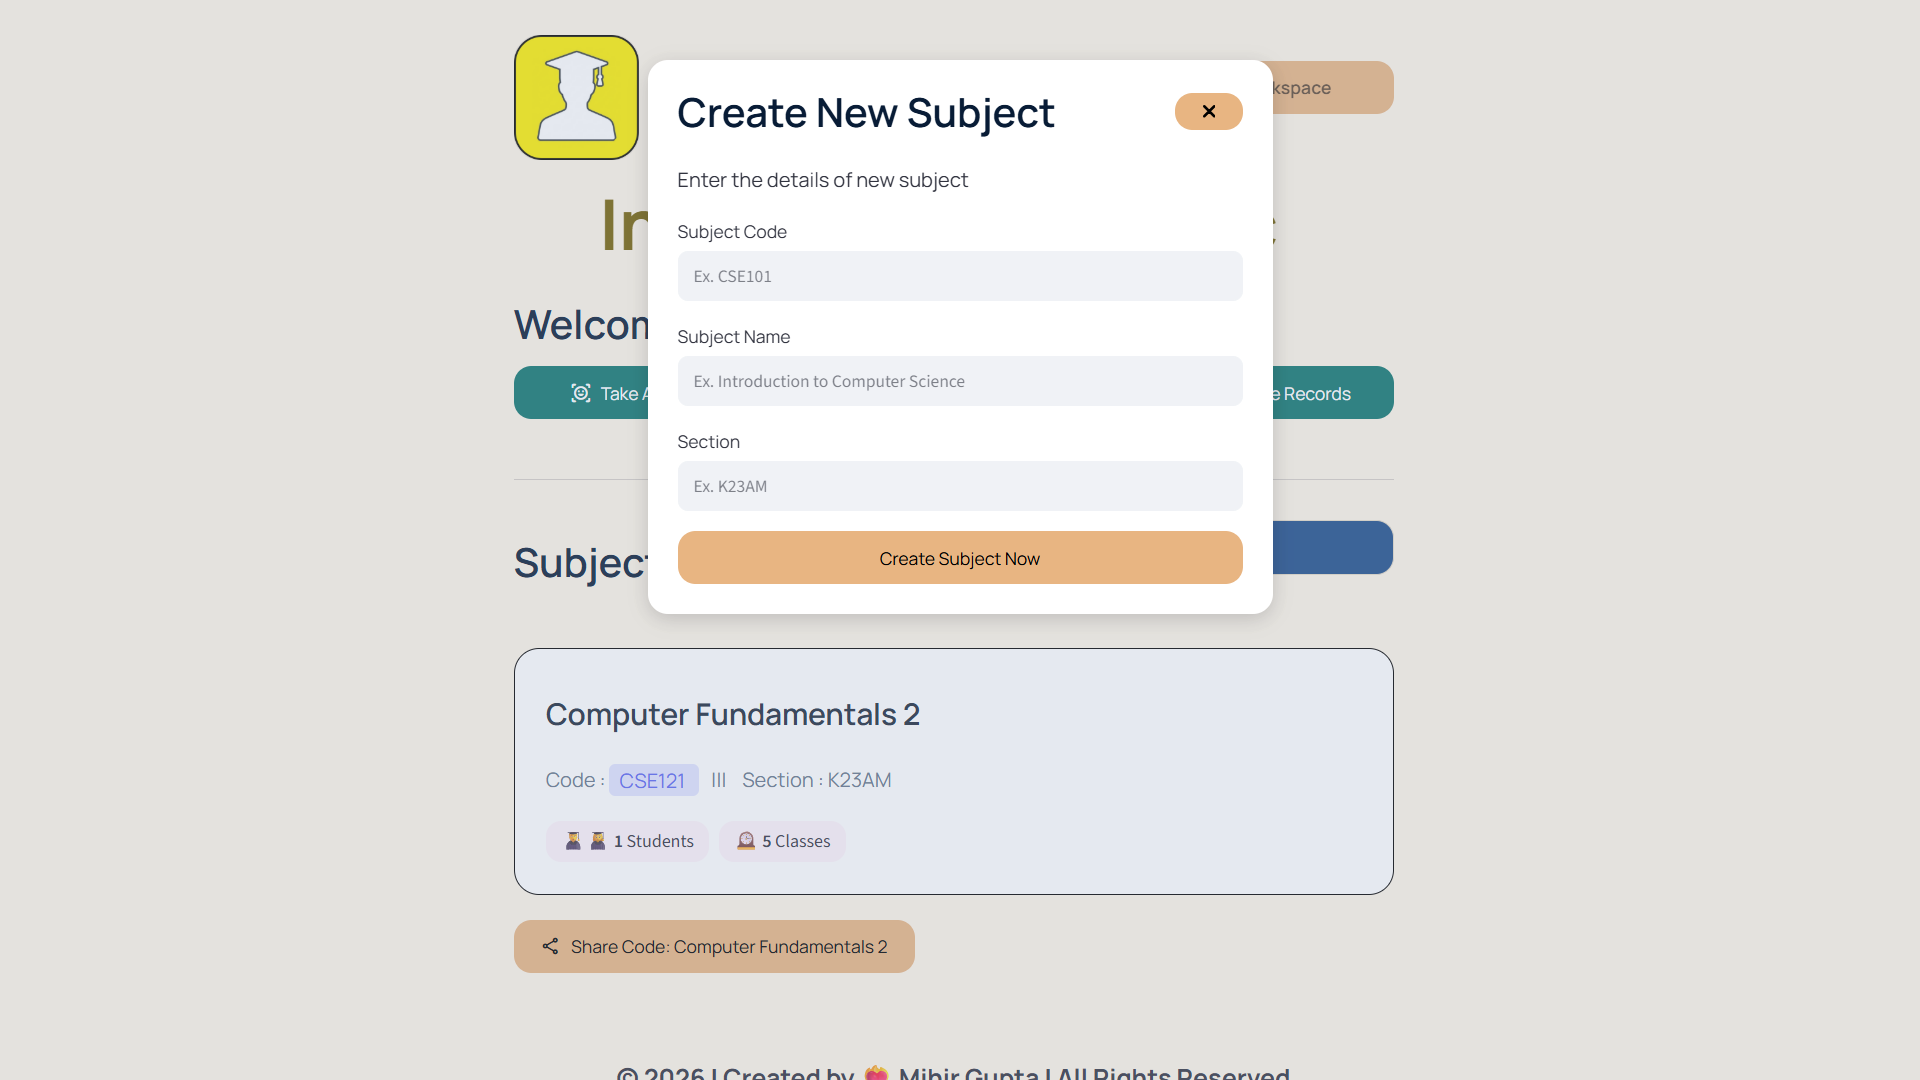
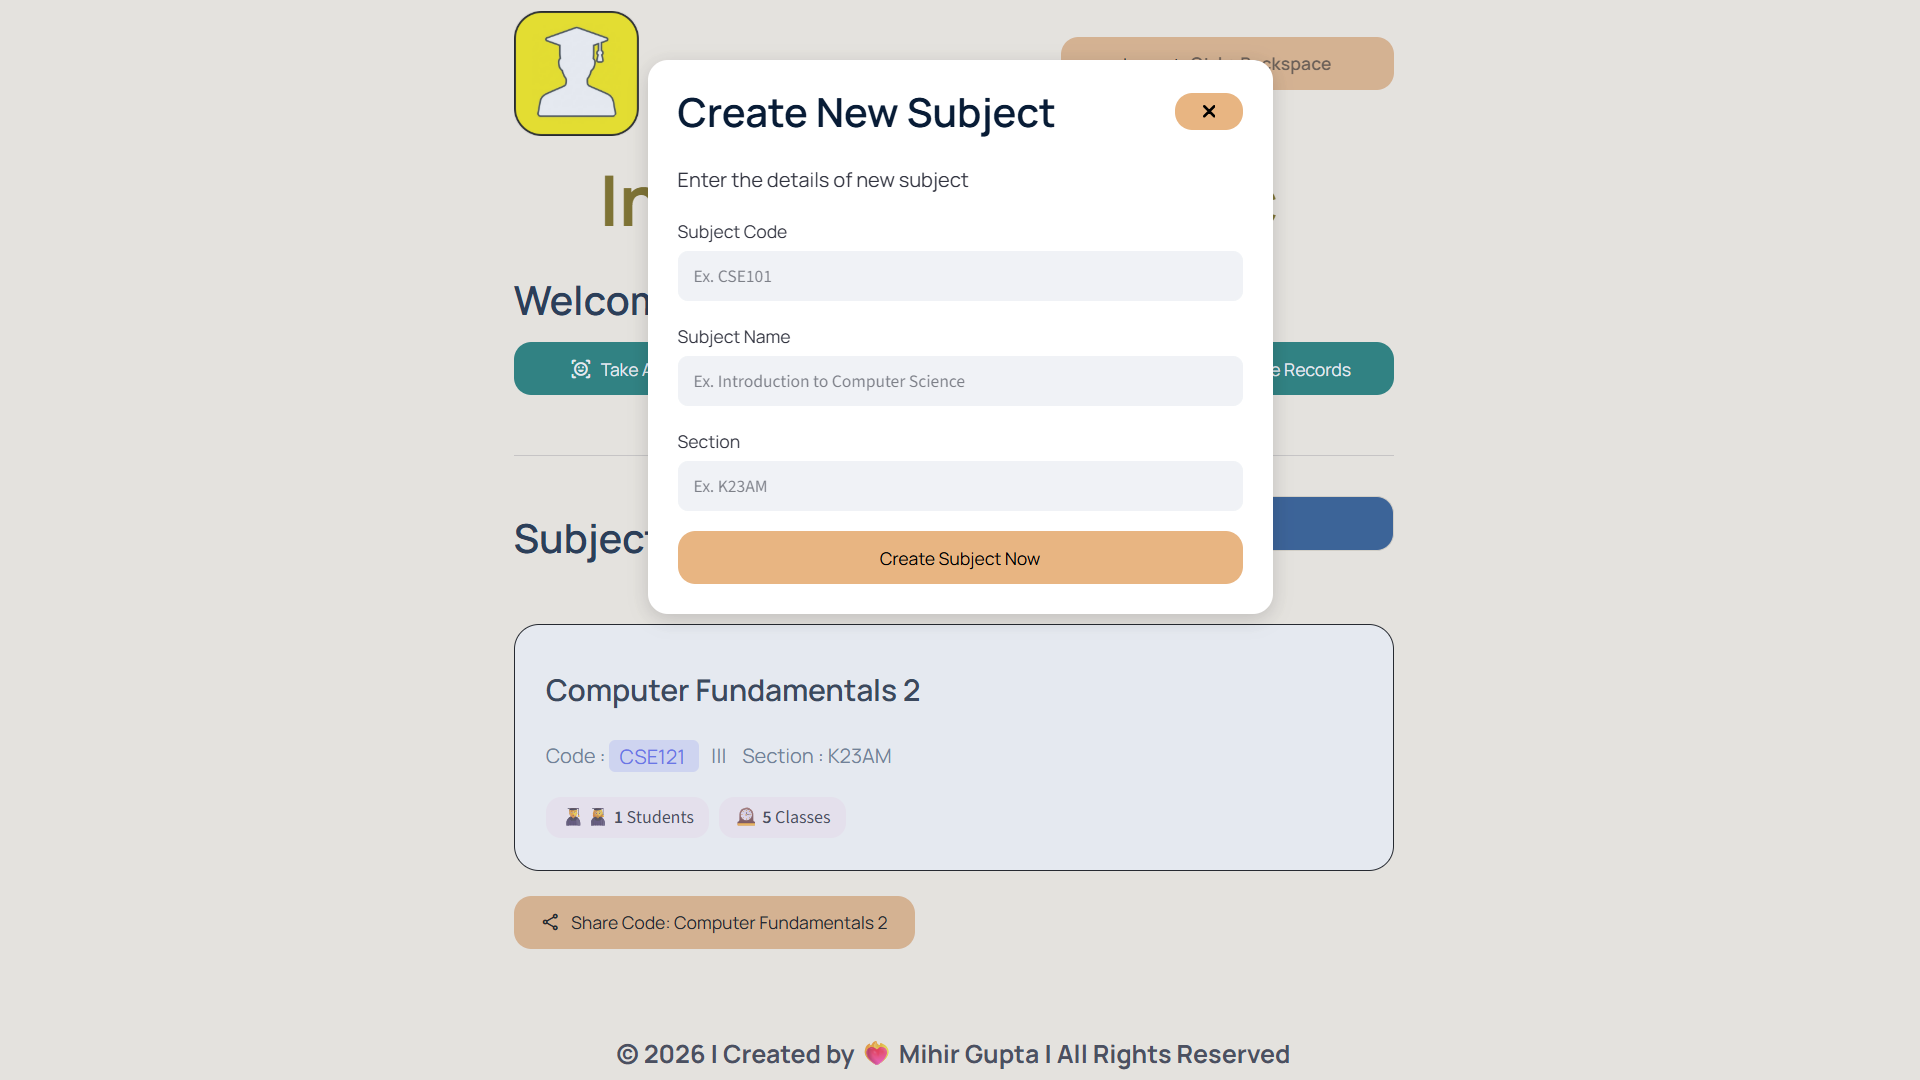
Addendance System header section created with all styling and functionality

diff --git a/static/css/styles.css b/static/css/styles.css
@@ -3,16 +3,19 @@
 :root{
     --bg-main: #dde2ef;
     --primary: #e8b582;
+    --text-muted: #5b6879;
 }
 
 *{
     font-family: "Manrope", sans-serif;
     margin:0px;
     padding:0px;
+    box-sizing: border-box;
 }
 
 body{
     background-color: var(--bg-main);
+    overflow-x: hidden;
 }
 
 .navbar{
@@ -85,7 +88,7 @@ body{
     align-items: center;
     justify-content: center;
     text-align: center;
-    padding: 120px 40px;
+    padding: 60px 40px;
     background-color: #f0f0ff;
 }
 
@@ -101,4 +104,89 @@ body{
     color: var(--primary);
     margin-bottom: 32px;
 }
+
+.hero h1{
+    font-size: 5rem;
+    color: black;
+    max-width: 1000px;
+    margin-bottom: 24px;
+    line-height: 1;
+}
+
+.hero h1 span {
+    color: var(--primary)
+}
+
+.hero > p{
+    font-size: 1.25rem;
+    color: var(--text-muted);
+    max-width: 650px;
+    margin-bottom: 55px;
+    font-weight: 700;
+}
+
+.hero-actions{
+    display: flex;
+    align-items: center;
+    gap:25px;
+    margin-bottom: 60px
+}
+
+.btn-cta{
+    background-color: black;
+    color: white;
+    border-radius: 100px;
+    text-decoration: none;
+    padding: 20px 48px;
+    font-size: 1.1rem;
+    display: flex;
+    align-items: center;
+    font-weight: 700;
+    gap: 12px;
+}
+
+.btn-cta:hover{
+    background-color: #333333;
+}
+
+.link-action{
+    color: var(--text-muted);
+    text-decoration: underline;
+    font-weight: 600;
+}
+
+.floating-card{
+    position:absolute;
+    width: 320px;
+    background-color: white;
+    padding: 14px;
+    border-radius: 36px;
+    border: 1px solid #e5e7eb;
+    overflow: hidden;
+}
+
+.floating-card img{
+    width: 100%;
+    height: auto;
+    aspect-ratio: 1/1;
+    object-fit: cover;
+    border-radius:25px;
+    background-color: gray;
+}
+
+.card-left{
+
+    left: 20px;
+    bottom: 15%;
+
+}
+
+.card-right{
+
+    right: 20px;
+    bottom: 15%;
+
+}
+
+
 

diff --git a/templates/index.html b/templates/index.html
@@ -44,7 +44,7 @@
             Welcome to IntelliPresenceSync AI
         </div>
 
-        <h1>AI Powered <br> Attendance <span>System</span> </h1>
+        <h1>AI Powered <br><span> Attendance System</span> </h1>
 
         <p>Revolutionizing the classroom with next-gen computer vision and voice biometrics. Trusted by educators for
             speed, accuracy, and security.</p>
